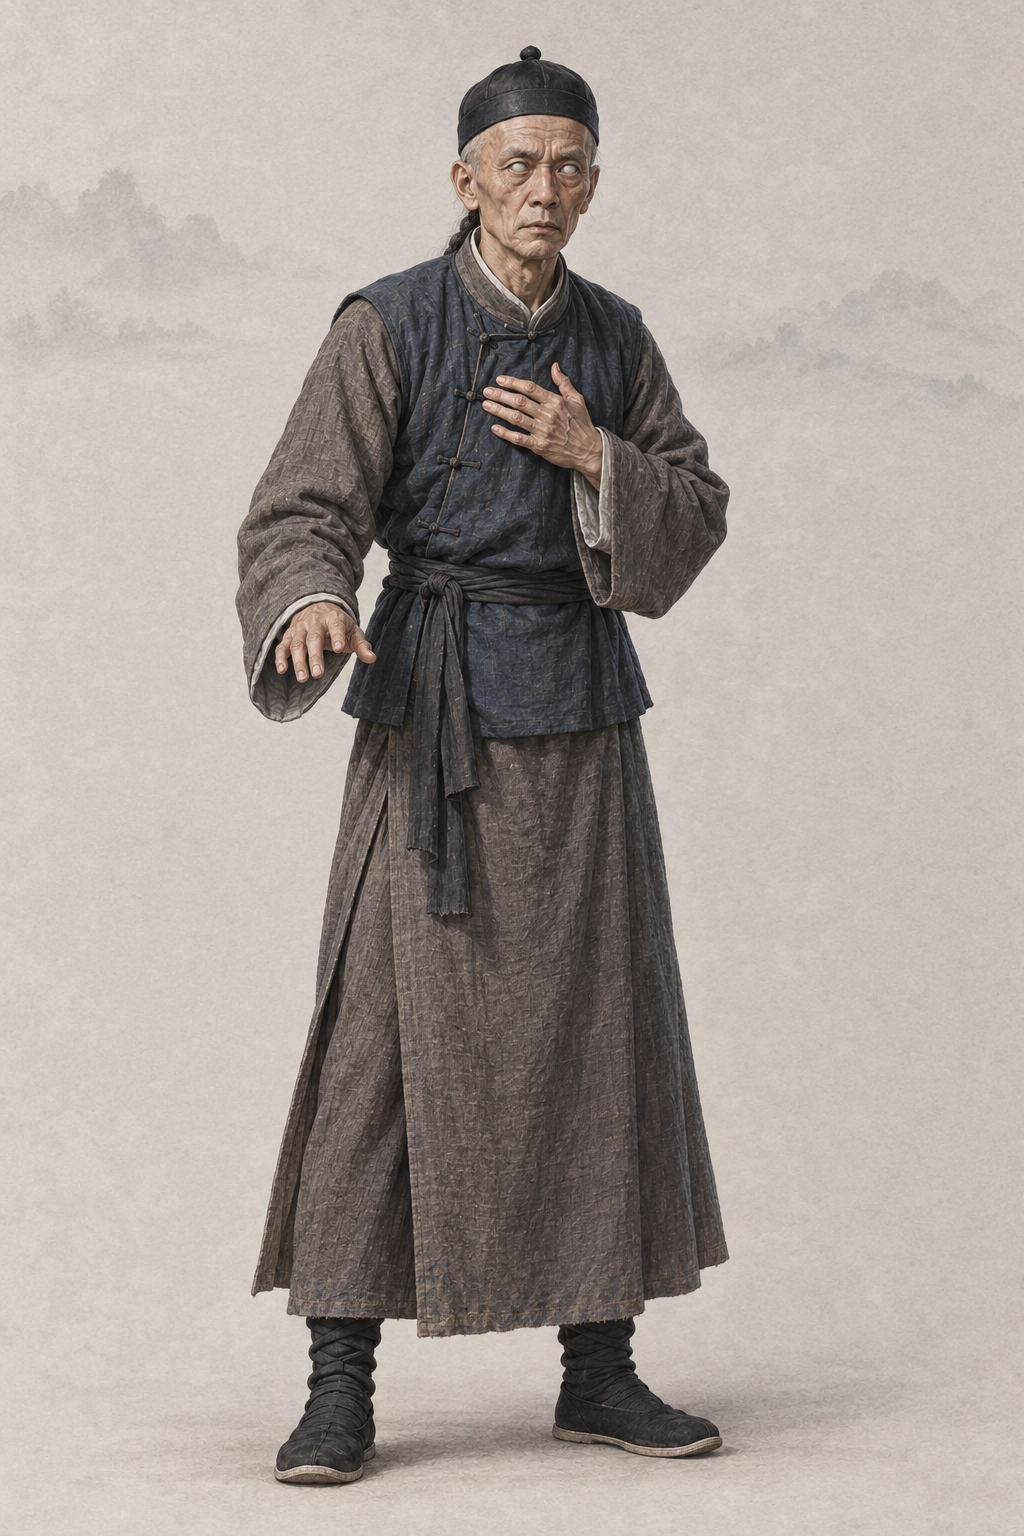
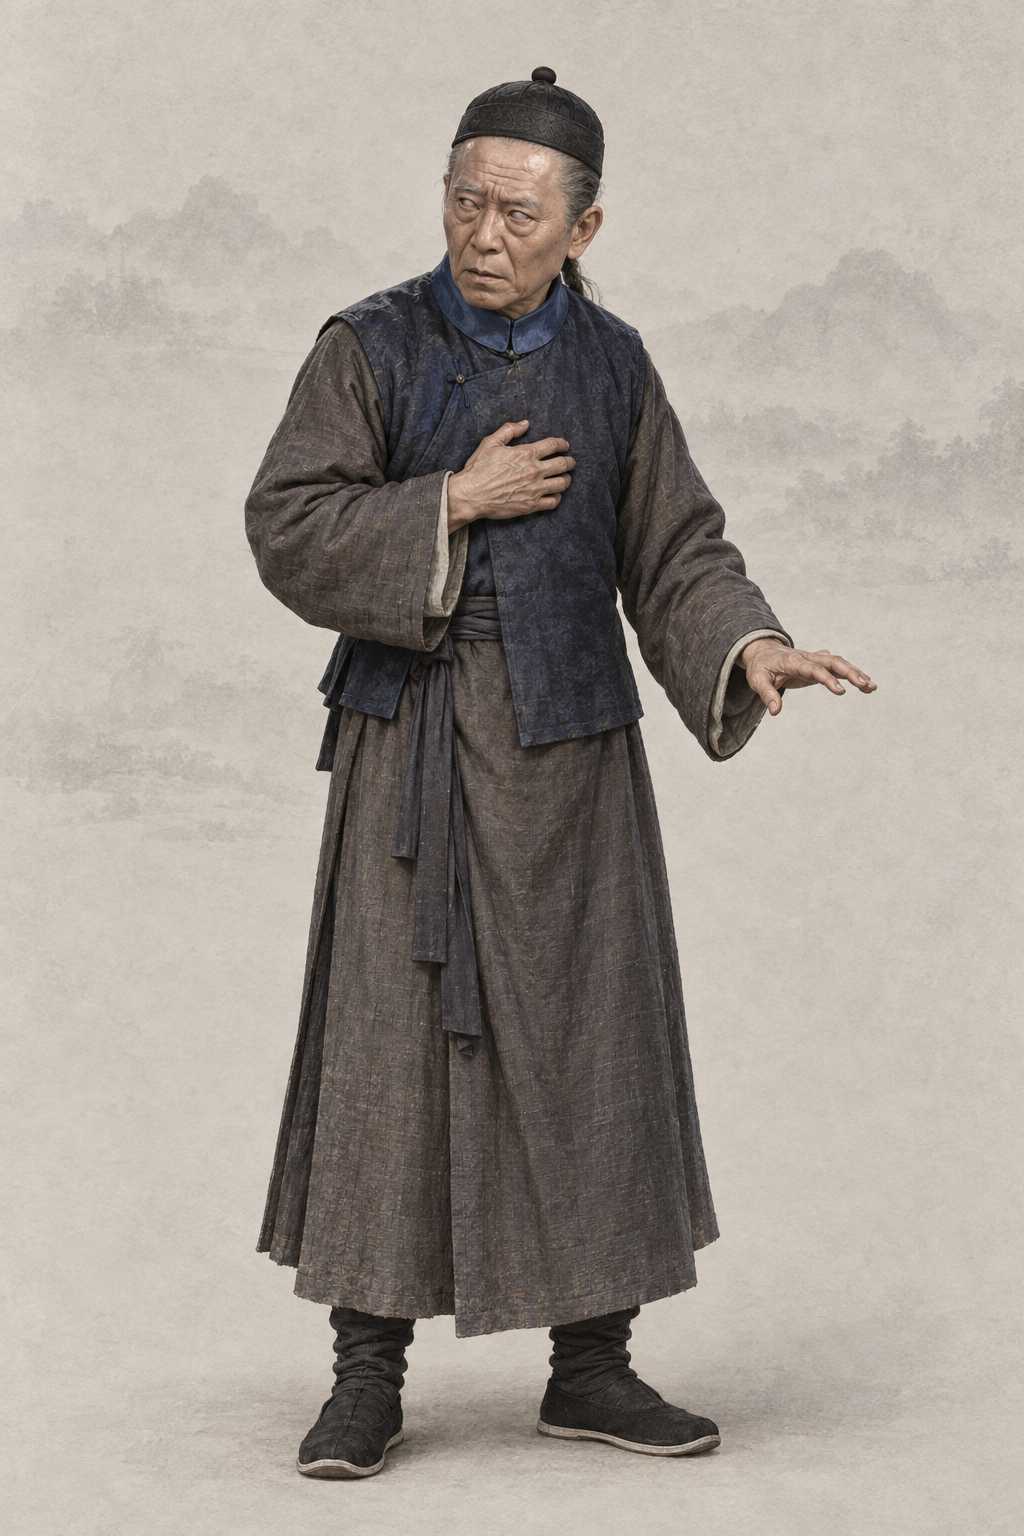
assets(character): por_npc_haidafu__ch08_elder_blind_base 海大富（codex · AR-32 经典剧照重出）
1998 年 TVB《鹿鼎记》剧照 1 张 + 基线；提示词写回「## Gemini 提示词」，上一版留作历史，frontmatter 加 classic_ref。

diff --git a/assets/default/prompts/characters/ch08-luding/npc_haidafu.md b/assets/default/prompts/characters/ch08-luding/npc_haidafu.md
@@ -15,14 +15,42 @@ references:
   use: 第二参考只提供暖浅灰不透明纸底、极浅低对比水墨远山、薄雾和留白。已实际view；完全忽略王语嫣本人面容、年龄、性别、身体、倾头、发髻、白青衣裙、飘带和饰物。水墨和纸纹仅在人物之外，不能侵蚀皮肤、衣料、头发或器物。
 status: redo
 redo_reason: "旧图以 1998 年剧集剧照为面部身份参考生成，有复刻真人面容的风险（本轮口径禁止）；病弱瞎眼老太监的造型可用，只把脸换成文字设计的面容。"
-reference_upload:
-- assets/default/baseline/character/male/ref_npc_linghuchong__ch05_base01.png
 realism_revision: user_identity_pose_20261001
+classic_ref:
+  version: "1998 年 TVB《鹿鼎记》"
+  stills:
+  - ".agents/coord/imagegen-reference/identity-20261001/luding/haidafu_1998_gufeng_sina2025_single_1.jpg"
+  note: "剧照缩到长边 1024 的 JPEG 上传，放在两张同性别基线之前（AR-32）；haidafu_1998_gufeng_sina2025_single_1.jpg 裁切框 (0.05, 0.0, 0.95, 0.88)"
+reference_upload:
+- .agents/coord/imagegen-reference/identity-20261001/luding/haidafu_1998_gufeng_sina2025_single_1.jpg
+- assets/default/baseline/character/male/ref_npc_linghuchong__ch05_base01.png
+- assets/default/baseline/character/male/ref_npc_xiaofeng__ch01_base01.png
+codex_prompt_rev: 2026-10-02
 ---
 
 # 海大富 · 人物写实修正
 
 ## Gemini 提示词
+
+> 2026-10-02 AR-32 经典剧照重出（6 号出图员，codex exec · image_gen 出图）：上传该角色经典影视版剧照 1 张（1998 年 TVB《鹿鼎记》：haidafu_1998_gufeng_sina2025_single_1.jpg）在前、两张同性别基线在后。剧照只借鉴发型、服饰、配色、标志道具、气质与面部特征，重新绘制成项目画风，不照搬照片的构图、光影和姿势；人物一律成年；清代男子按清制剃额留辫。提示词里不写演员名。上一版提示词保留在下一节作历史。
+
+```text
+生成一张 2:3 竖幅全身人物立绘：单人、单一视角、完整全身——头顶、双手、双脚和手中器物的两端都在画面内，四周留出自然空白；人物站姿自然，身体基本朝向正面，头部端正（不歪头、不仰不俯），镜头平视。
+【参考图】随提示词上传 3 张参考图。第 1 张参考图是该角色经典影视造型的剧照：借鉴其发型、服饰、配色、标志道具、气质和面部特征，让人一眼认出是这个角色；但必须重新绘制成项目画风，不要照片质感，不要照搬剧照的构图、光影、背景和姿势，也不要做成照片修图。剧照与下文文字不一致的地方（年龄、所处阶段、帽饰与衣装细节、手中器物），以下文文字为准；画中人一律是成年人。最后两张是本项目画风基线：画风、用色、光线、质感和暖浅灰纸底加淡水墨背景以它们为准。
+【画风】写实手绘古风人物插画，与本项目写实武侠角色立绘同一画风，像功力深厚的画师用细腻笔触画出的真实人物。手绘插画质感，不是 CG 渲染：不要过度光滑的皮肤、完美对称的五官、塑料高光、过度锐利的发丝；保留自然的笔触和细微不完美。皮肤有真实质感——细小毛孔、细纹、晒痕和自然的左右不对称，不磨皮、不油亮；头发是一缕缕自然的发丝和少量碎发；布料看得出经纬纹理、厚薄和自然垂坠的褶皱，带穿用过的轻微旧化，但完整不破烂；整体设色低饱和、沉稳；柔和的自然光从左上方照来，明暗过渡自然，不打舞台光、轮廓光或美颜柔光。不是照片，不是三维渲染，不是动漫或游戏 CG，也不是油画（没有厚涂笔触和画布纹理）。
+【背景】不透明的暖浅灰色纸底，只在远处有极淡的水墨远山和薄雾，大面积留白；人物与背景明暗分明、轮廓边缘干净完整（后续要自动抠图），水墨和纸纹只在背景里，不侵入人物和衣服；脚下只有很淡的一点接触阴影。
+【人物】海大富，《鹿鼎记》中的宫中老太监，双目已盲、仍在宫中暗查旧案的时期。
+【年龄与体态】约六十多岁的老太监，身形消瘦，微微弯背，但双脚站得稳。
+【经典造型】照剧照里九十年代经典港剧版的海大富来画：干瘦阴沉的老太监，深色袍子配蓝色领缘，面色蜡黄、眼神阴鸷，病恹恹却深藏不露、出手狠辣。
+【面容】脸以剧照为底子——保留剧照里这个角色的脸型、眉眼、鼻唇的比例关系和神气，画成成年人；面色蜡黄带病容，脸上没有胡须；双颊凹陷，额头有平行的皱纹，眉毛稀疏灰白，眼袋下垂；双眼已盲，眼睛自然睁着却没有焦点、眼神空茫；鼻梁较高、鼻尖厚；嘴唇薄而苍白，神情阴沉警觉，像在侧耳倾听。
+【发式】前额剃光，稀疏的灰白细辫，头戴黑色圆顶小帽。
+【服饰】清宫老太监的灰褐色圆领大襟长袍（右衽），外罩暗蓝色短褂，腰系软布带，黑布鞋。
+【道具与姿态】空手；一手按在胸口，像刚压住一阵咳嗽，另一只手低低地伸向侧前方探知动静；身体正面站立。
+【不要】画面里不要任何文字、题款、印章、签名、水印、台标、边框、分格或多视图；不要第二个人；不要幼态（童颜、娃娃脸、婴儿肥、儿童或少年身材、大头小身）；不要塑料感皮肤、磨皮美颜、网红脸（尖下巴大眼高鼻的模板脸）、过度对称、浓妆、偶像式打光、蜡像感；不要照片质感、三维渲染或动漫大眼；不要歪头、斜镜头；不要多指、缺指（设定的伤残除外）、手与器物粘连或悬空；汉式交领必须右衽（穿着者的左襟压在右襟上），不要左衽（设定为少数民族服制的除外），不要水平镜像；不要现代物品、日式服饰或日本刀、发光特效、法阵或能量光。不要照片或照片修图的质感，不要照搬剧照的构图、光影、背景和姿势，不要剧照里的字幕、台标和水印。不要胡须；不要照片感；不要盲杖、拂尘；不要夸张的白瞳恐怖脸。清初男子一律穿圆领大襟（衣襟从领口斜向右腋下扣合），不要汉式交领长衫，不要明代发髻或网巾。
+【画风基线】随提示词上传的参考图里，最后两张是本项目的立绘画风基线：只参考它们的画风、用色、光线、质感和暖浅灰纸底加淡水墨的背景处理，整体画风必须与它们一致——精细写实的数字手绘插画，不是油画，不要厚涂笔触和画布纹理。基线图只取画风，不取长相：不要照搬基线图里人物的长相、年龄、发型、服饰和姿势。
+```
+
+## 上一版 Gemini 提示词（2026-10-02 文字版；AR-32 经典剧照重出前，历史，不再用于出图）
 
 > 2026-10-02 立绘审核（B 组，见 `tools/agents/reports/REVIEW-portraits-B-ch05-09.md`）：**微调重出**（P3）。旧图以 1998 年剧集剧照为面部身份参考生成，有复刻真人面容的风险（本轮口径禁止）；病弱瞎眼老太监的造型可用，只把脸换成文字设计的面容。
 >
